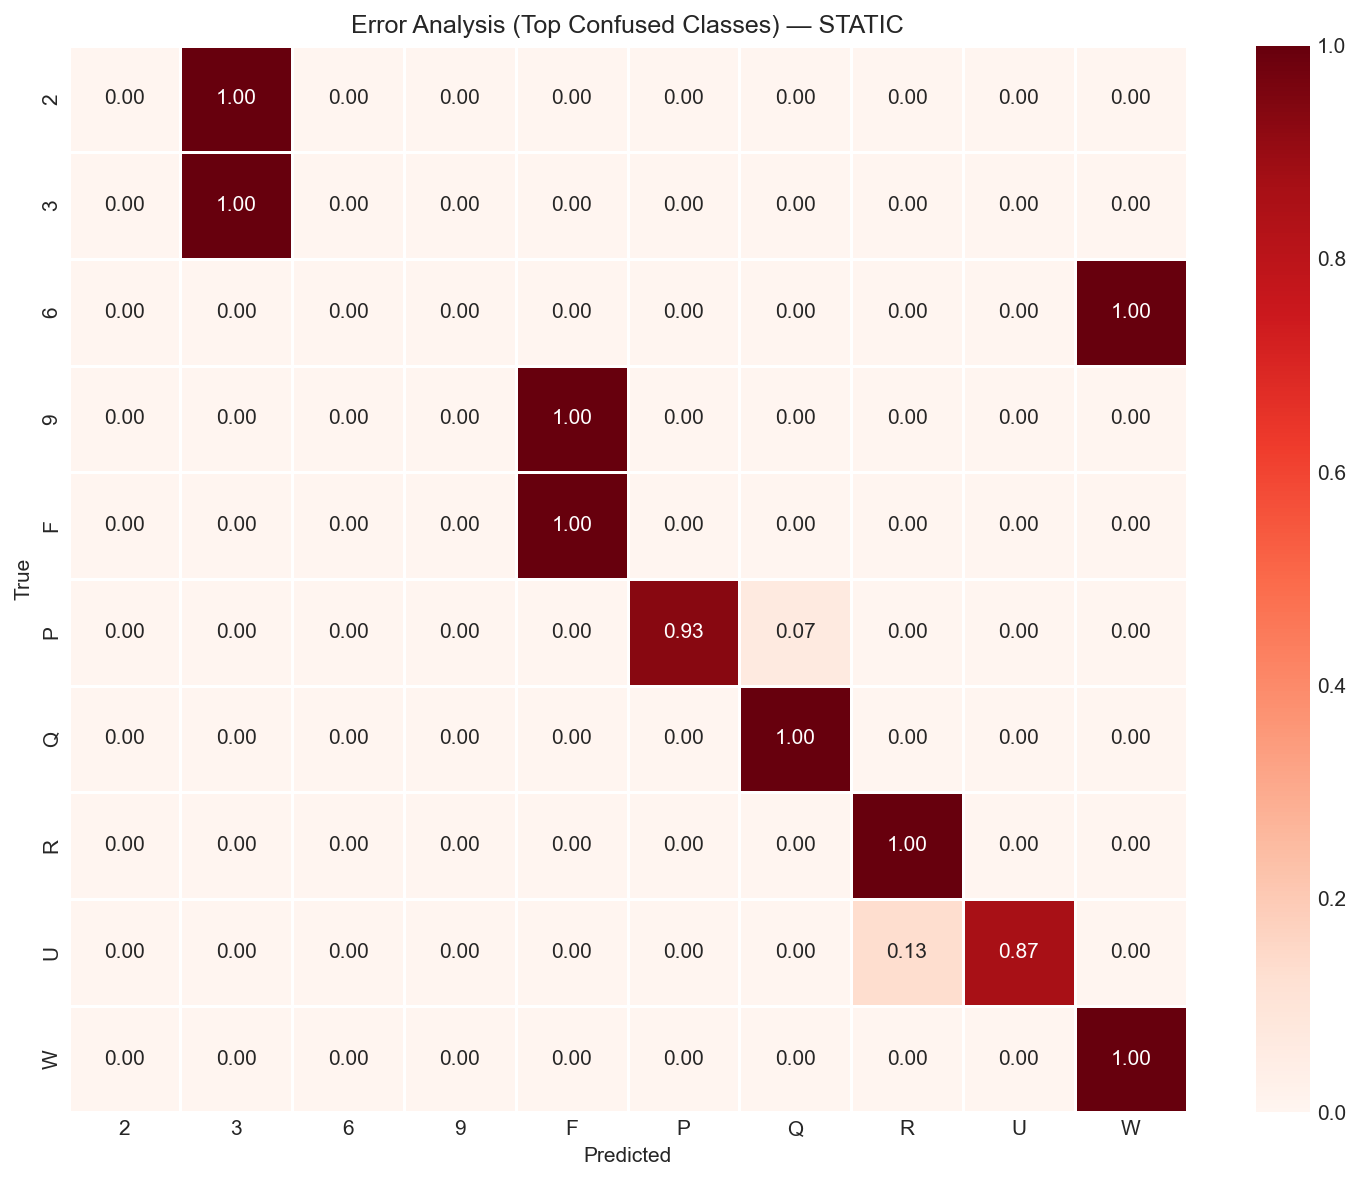
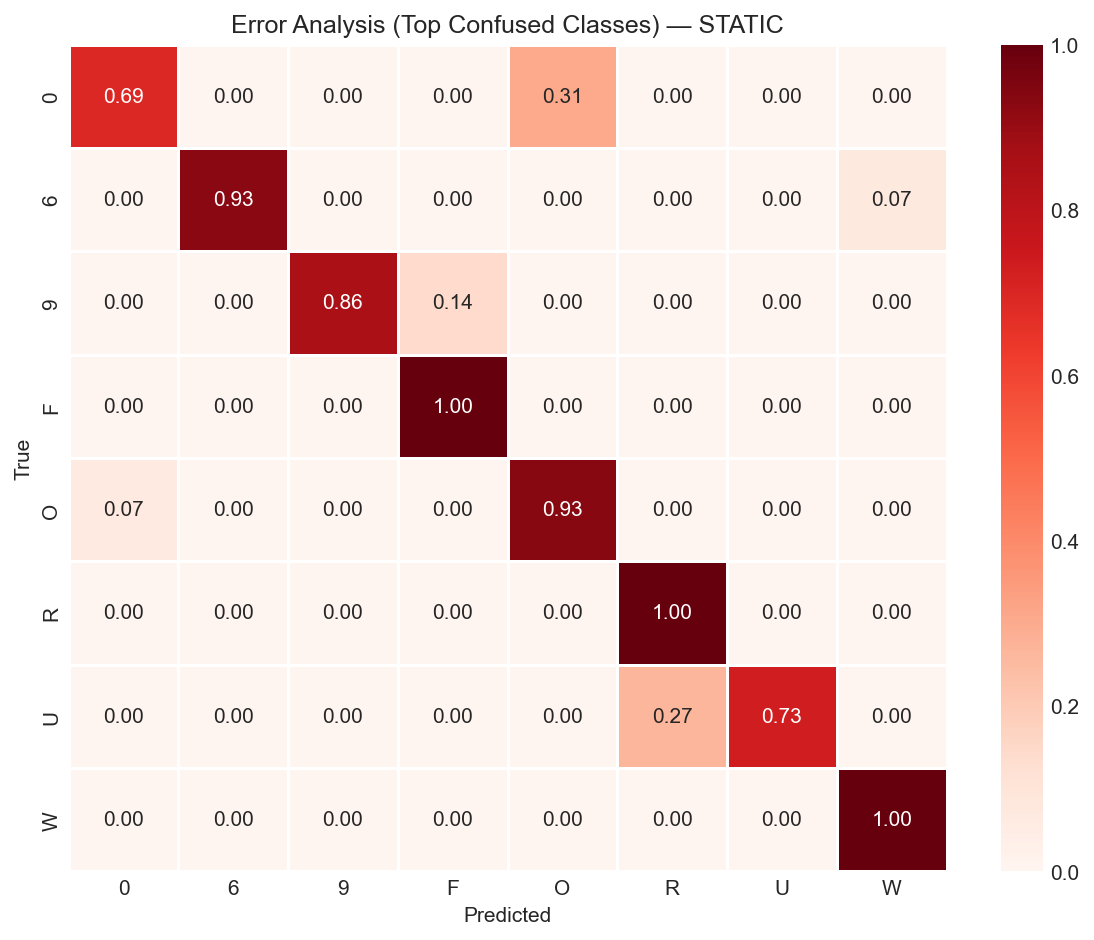
Update dashboard with retrained model metrics and expanded dataset
- Static accuracy: 96.8% → 97.37% after adding more digit samples
- All 34 classes now have 90–100 samples each (3,300 total)
- Separate per-class tables for letters and digits
- Updated dataset split sizes (train 2309 / val 496 / test 495)
- Removed stale note about digits having only 10 samples
- Refreshed confusion matrix and error analysis plots
- Updated About tab dataset table with totals

diff --git a/app.py b/app.py
@@ -29,8 +29,8 @@ with tab1:
     st.header("Model Evaluation Results")
 
     col1, col2, col3, col4 = st.columns(4)
-    col1.metric("Static Model Accuracy",  "96.8%",  "+29.8% vs baseline")
-    col2.metric("Dynamic Model Accuracy", "97.2%")
+    col1.metric("Static Model Accuracy",  "97.37%", "+30.37% vs baseline")
+    col2.metric("Dynamic Model Accuracy", "97.22%")
     col3.metric("MediaPipe Detection FPS", "37.7 FPS")
     col4.metric("End-to-End Latency",     "~124 ms")
 
@@ -44,13 +44,14 @@ with tab1:
         st.dataframe(pd.DataFrame({
             "Metric":  ["Accuracy", "Weighted Precision", "Weighted Recall",
                         "Weighted F1", "Macro Precision", "Macro Recall", "Macro F1"],
-            "Value":   ["96.80%", "95.36%", "96.80%", "95.88%",
-                        "80.80%", "83.24%", "81.22%"],
+            "Value":   ["97.37%", "97.69%", "97.37%", "97.34%",
+                        "97.71%", "97.27%", "97.29%"],
         }), hide_index=True, use_container_width=True)
     with n_col:
         st.info(
-            "**Note:** Digits 0–9 have only 10 training samples each vs 100 for "
-            "letters, which lowers macro averages. Letters A–Y achieve near-perfect scores."
+            "**Dataset:** 34 classes (A–Y excl. J/Z, digits 0–9).  \n"
+            "Each class has **90–100 samples** (3,300 total).  \n"
+            "Train / Val / Test split: **2,309 / 496 / 495** samples."
         )
 
     for img, caption in [
@@ -68,11 +69,19 @@ with tab1:
     # ── Dynamic model ─────────────────────────────────────────────────────────
     st.subheader("Dynamic Gesture Model (BiLSTM) — J, Z + 10 Common Words")
 
-    st.dataframe(pd.DataFrame({
-        "Metric": ["Accuracy", "Weighted Precision", "Weighted Recall",
-                   "Weighted F1", "Macro F1"],
-        "Value":  ["97.22%", "97.35%", "97.22%", "97.22%", "97.22%"],
-    }), hide_index=True, use_container_width=True)
+    d_col, d_info = st.columns(2)
+    with d_col:
+        st.dataframe(pd.DataFrame({
+            "Metric": ["Accuracy", "Weighted Precision", "Weighted Recall",
+                       "Weighted F1", "Macro F1"],
+            "Value":  ["97.22%", "97.35%", "97.22%", "97.22%", "97.22%"],
+        }), hide_index=True, use_container_width=True)
+    with d_info:
+        st.info(
+            "**Dataset:** 12 classes (J, Z, hello, thanks, please, sorry, yes, no, help, stop, more, finish).  \n"
+            "Each class has **100 sequences** (1,200 total).  \n"
+            "Train / Val / Test split: **840 / 180 / 180** sequences."
+        )
 
     for img, caption in [
         ("confusion_matrix_dynamic.png",  "Confusion Matrix — Dynamic Model"),
@@ -87,21 +96,30 @@ with tab1:
     st.divider()
 
     # ── Per-class breakdown ───────────────────────────────────────────────────
-    st.subheader("Per-Class Results — Static Model (Letters)")
+    st.subheader("Per-Class Results — Static Model (Letters A–Y)")
     letter_data = {
-        "Class": ["A","B","C","D","E","F","G","H","I","K","L","M",
-                  "N","O","P","Q","R","S","T","U","V","W","X","Y"],
-        "Precision": [1.00,0.94,1.00,1.00,1.00,0.83,1.00,1.00,1.00,1.00,
-                      1.00,1.00,1.00,1.00,1.00,0.94,0.88,1.00,1.00,1.00,
-                      1.00,0.88,1.00,1.00],
-        "Recall":    [1.00,1.00,1.00,1.00,1.00,1.00,1.00,1.00,1.00,1.00,
-                      1.00,1.00,1.00,1.00,0.93,1.00,1.00,1.00,1.00,0.87,
-                      1.00,1.00,1.00,1.00],
-        "F1":        [1.00,0.97,1.00,1.00,1.00,0.91,1.00,1.00,1.00,1.00,
-                      1.00,1.00,1.00,1.00,0.97,0.97,0.94,1.00,1.00,0.93,
+        "Class":     ["A","B","C","D","E","F","G","H","I","K","L","M",
+                      "N","O","P","Q","R","S","T","U","V","W","X","Y"],
+        "Precision": [1.00,1.00,1.00,1.00,1.00,0.88,1.00,1.00,1.00,1.00,
+                      1.00,1.00,1.00,0.78,1.00,1.00,0.79,1.00,1.00,1.00,
                       1.00,0.94,1.00,1.00],
+        "Recall":    [1.00,1.00,1.00,1.00,1.00,1.00,1.00,1.00,1.00,1.00,
+                      1.00,1.00,1.00,0.93,1.00,1.00,1.00,1.00,1.00,0.73,
+                      1.00,1.00,1.00,1.00],
+        "F1":        [1.00,1.00,1.00,1.00,1.00,0.94,1.00,1.00,1.00,1.00,
+                      1.00,1.00,1.00,0.85,1.00,1.00,0.88,1.00,1.00,0.85,
+                      1.00,0.97,1.00,1.00],
     }
     st.dataframe(pd.DataFrame(letter_data), hide_index=True, use_container_width=True)
+
+    st.subheader("Per-Class Results — Static Model (Digits 0–9)")
+    digit_data = {
+        "Class":     ["0","1","2","3","4","5","6","7","8","9"],
+        "Precision": [0.90,1.00,1.00,1.00,0.93,1.00,1.00,1.00,1.00,1.00],
+        "Recall":    [0.69,1.00,0.93,1.00,1.00,1.00,0.93,1.00,1.00,0.86],
+        "F1":        [0.78,1.00,0.96,1.00,0.97,1.00,0.96,1.00,1.00,0.92],
+    }
+    st.dataframe(pd.DataFrame(digit_data), hide_index=True, use_container_width=True)
 
     st.subheader("Per-Class Results — Dynamic Model")
     dynamic_data = {
@@ -134,21 +152,23 @@ with tab1:
     with c1:
         st.write("**Static Model**")
         st.dataframe(pd.DataFrame({
-            "True": ["U","9","6","2","P"],
-            "Predicted": ["R","F","W","3","Q"],
-            "Count": [2,2,2,2,1],
-            "Reason": ["Similar finger shape","Insufficient digit data",
-                       "Insufficient digit data","Insufficient digit data",
-                       "Near-identical pose"],
+            "True":      ["U", "0", "9", "O", "6"],
+            "Predicted": ["R", "O", "F", "0", "W"],
+            "Count":     [4,   4,   2,   1,   1],
+            "Reason":    ["Similar finger shape",
+                          "Ambiguous round shape",
+                          "Similar loop shape",
+                          "Ambiguous round shape",
+                          "Similar finger spread"],
         }), hide_index=True, use_container_width=True)
     with c2:
         st.write("**Dynamic Model**")
         st.dataframe(pd.DataFrame({
-            "True": ["J","finish","finish","more"],
-            "Predicted": ["finish","stop","more","stop"],
-            "Count": [2,1,1,1],
-            "Reason": ["Curved motion overlap","Similar trajectory",
-                       "Similar wrist motion","Similar finger motion"],
+            "True":      ["J",     "finish", "finish", "more"],
+            "Predicted": ["finish","stop",   "more",   "stop"],
+            "Count":     [2,       1,        1,        1],
+            "Reason":    ["Curved motion overlap", "Similar trajectory",
+                          "Similar wrist motion",  "Similar finger motion"],
         }), hide_index=True, use_container_width=True)
 
 # ─────────────────────────────────────────────────────────────────────────────
@@ -198,8 +218,8 @@ with tab3:
 
     | Component | Architecture | Classes | Accuracy |
     |---|---|---|---|
-    | Static gestures | MLP (3 hidden layers) | A–Y (excl. J/Z), 0–9 | **96.8%** |
-    | Dynamic gestures | BiLSTM | J, Z, hello, thanks, please, sorry, yes, no, help, stop, more, finish | **97.2%** |
+    | Static gestures | MLP (3 hidden layers) | A–Y (excl. J/Z), 0–9 | **97.37%** |
+    | Dynamic gestures | BiLSTM | J, Z, hello, thanks, please, sorry, yes, no, help, stop, more, finish | **97.22%** |
 
     ### Pipeline
     1. **MediaPipe Hands** — detects 21 hand landmarks per frame (~37 FPS)
@@ -210,9 +230,12 @@ with tab3:
     ### Dataset
     | Split | Static | Dynamic |
     |---|---|---|
-    | Train | 1,750 samples | 840 sequences |
-    | Val | 375 samples | 180 sequences |
-    | Test | 375 samples | 180 sequences |
+    | Train | 2,309 samples | 840 sequences |
+    | Val | 496 samples | 180 sequences |
+    | Test | 495 samples | 180 sequences |
+    | **Total** | **3,300 samples** | **1,200 sequences** |
+
+    Samples per class: **90–100** (static) · **100** (dynamic, all classes equal)
 
     ### Tech Stack
     Python 3.11 · TensorFlow 2.21 · Keras 3 · MediaPipe 0.10.14 · OpenCV 4.x · Streamlit
